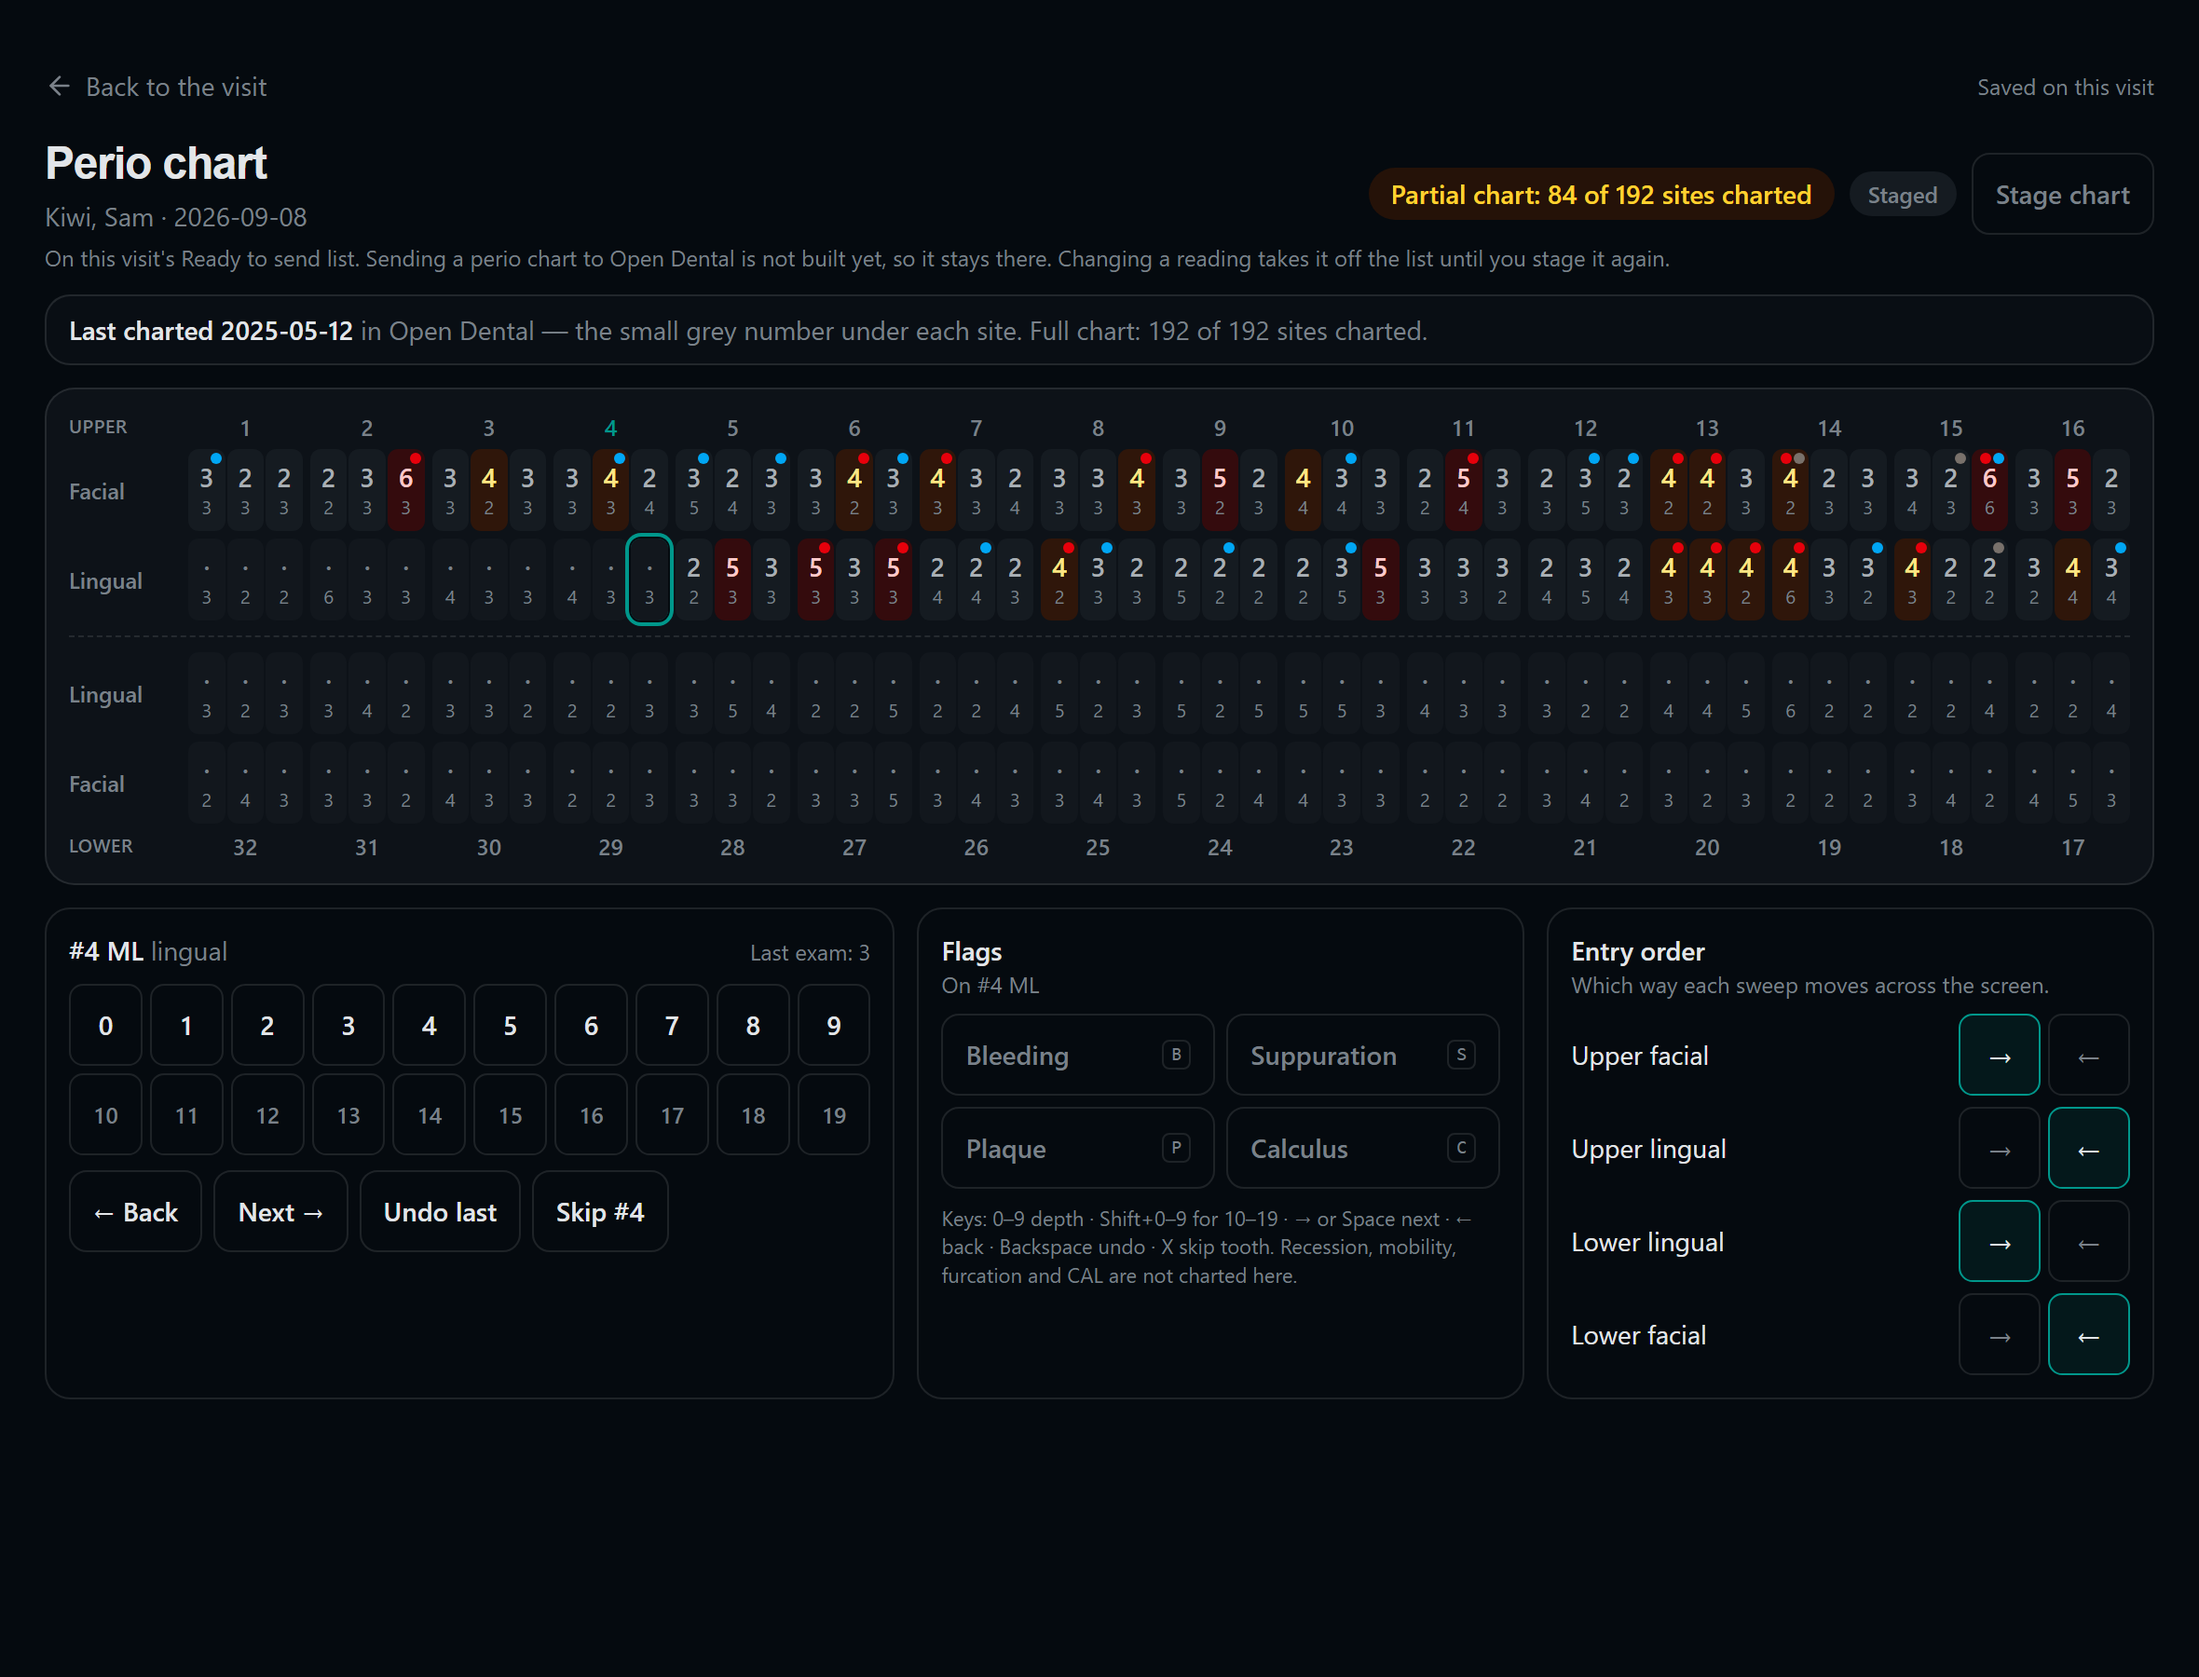
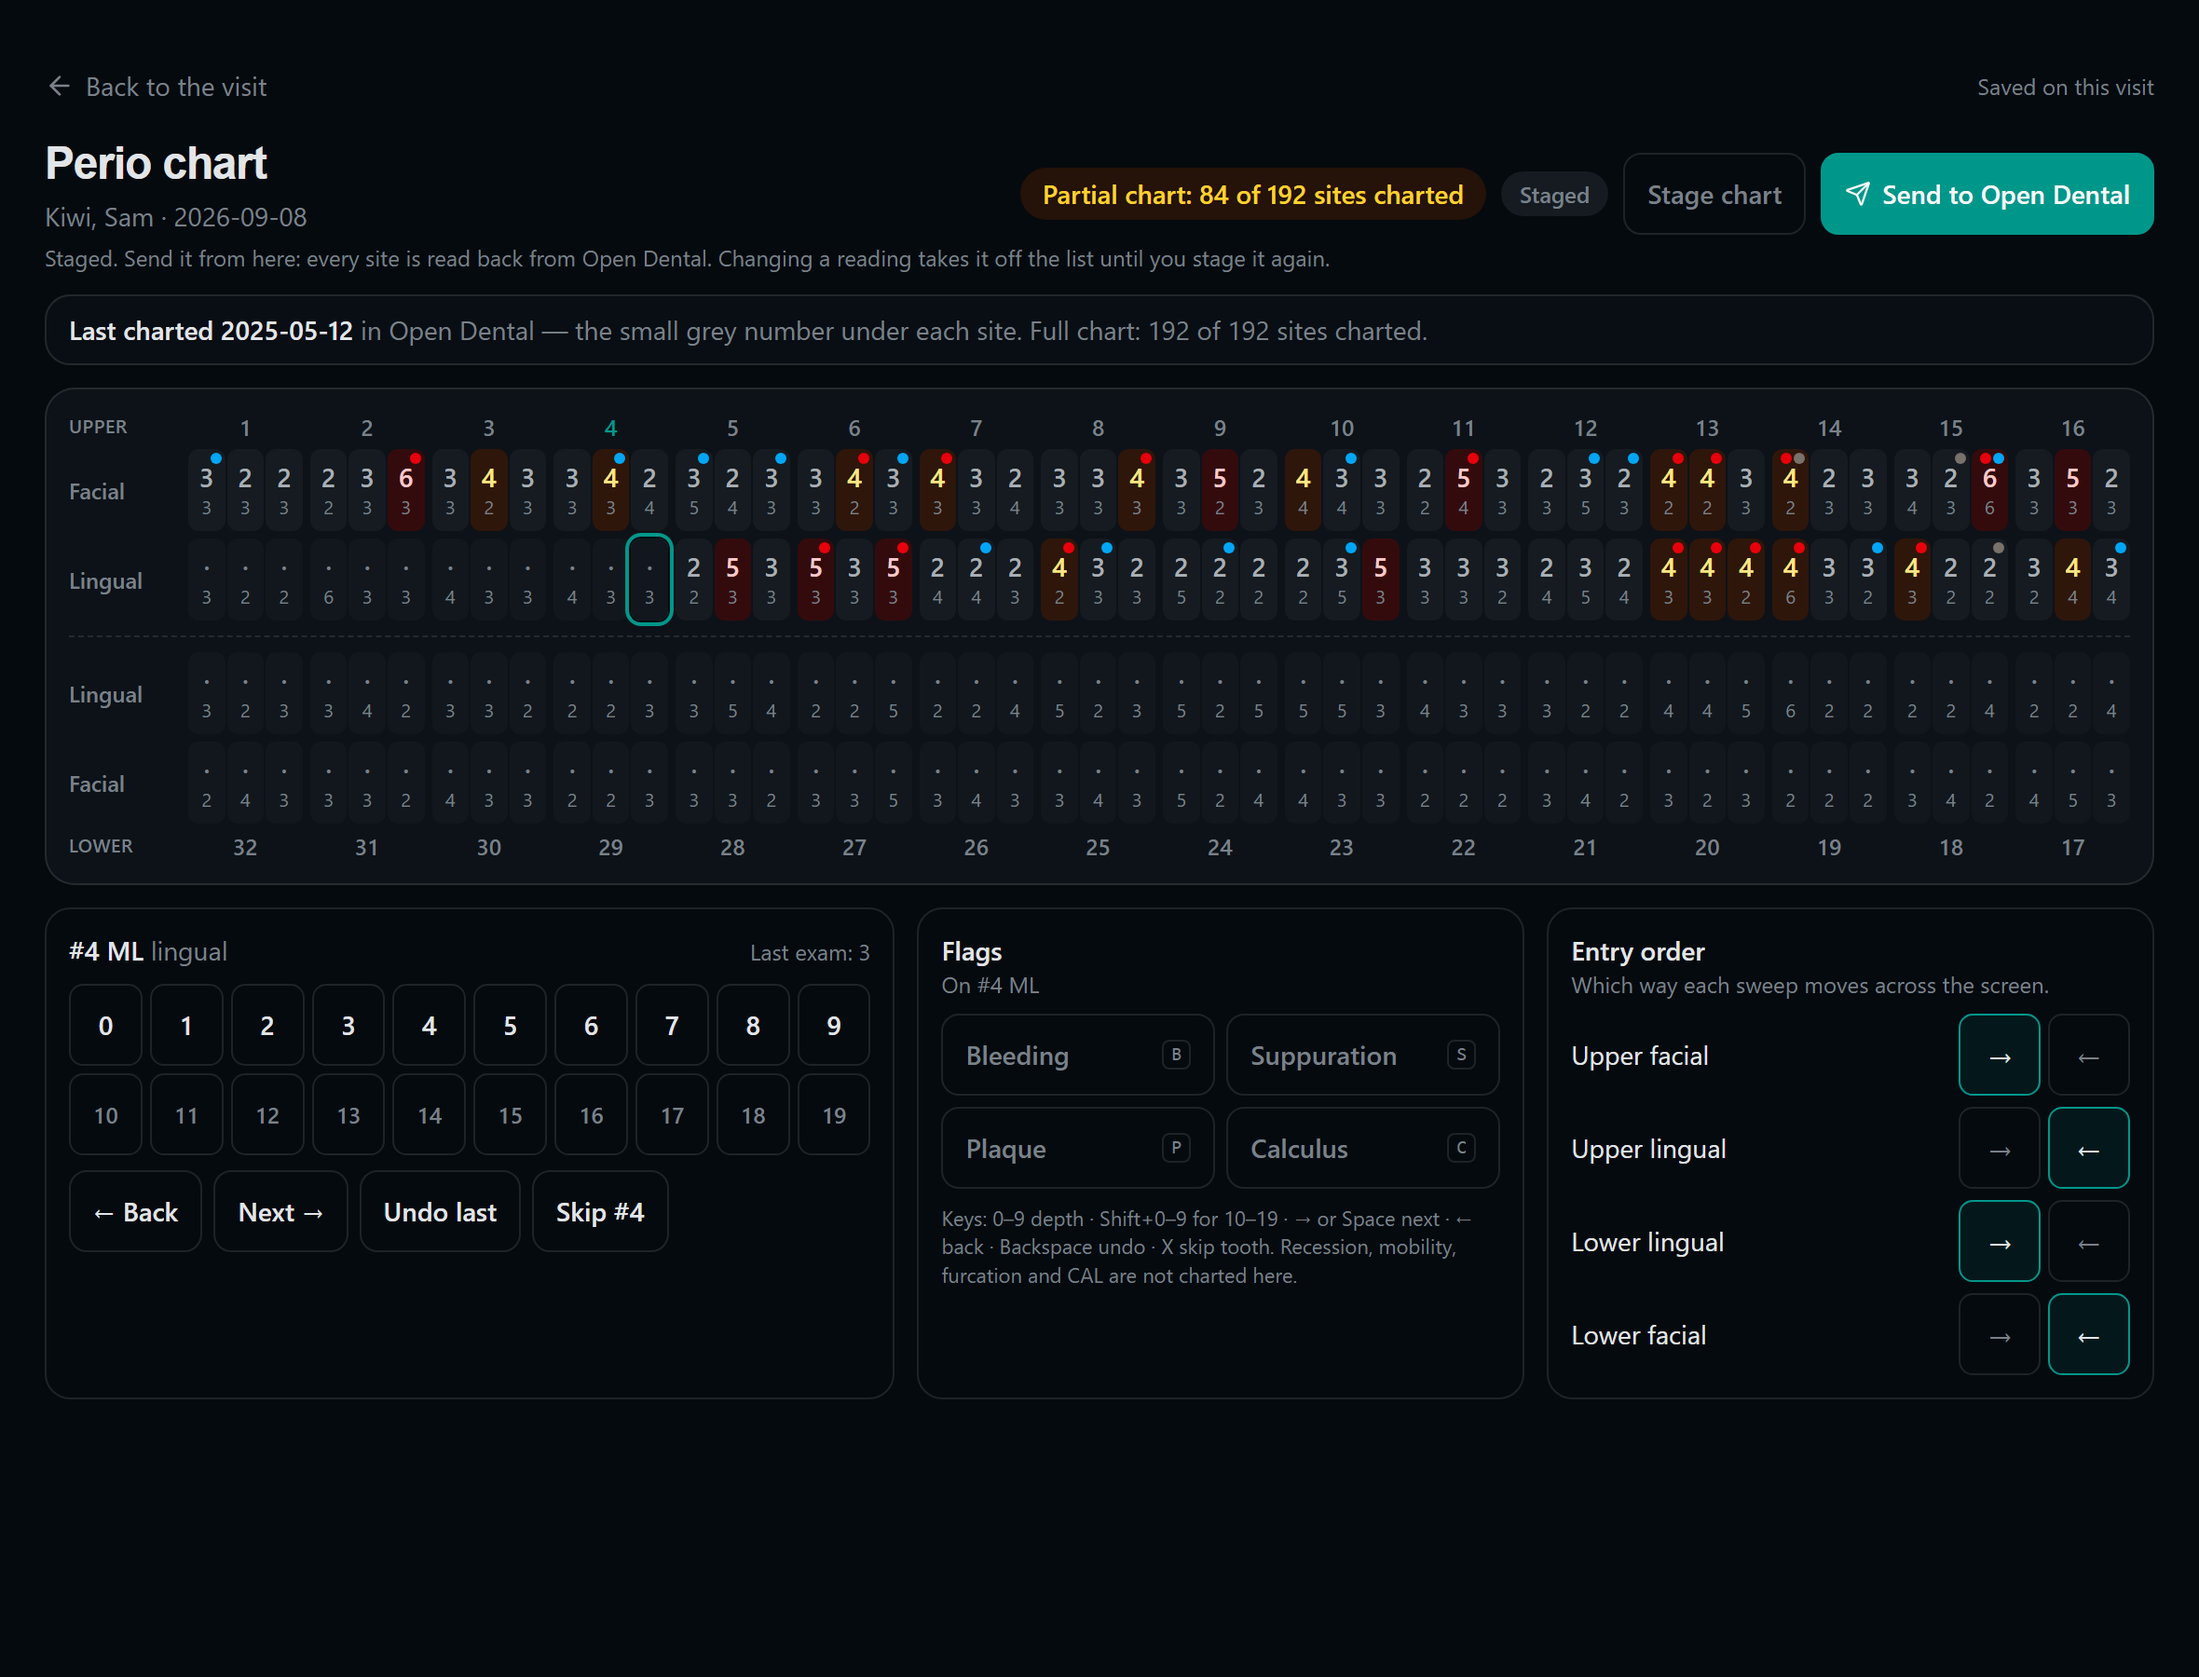
Photograph the perio send: confirm, paused, written, incomplete, undo, tray
Also point a stopped send's message at the perio chart page, since the
visit's tray shows the same words where there is no delete button.

Changed region(s): [[0.464, 0.0933, 0.9898, 0.1867], [0.2784, 0.1244, 0.3403, 0.1556], [0.0619, 0.1244, 0.0928, 0.1556]]

diff --git a/new-dashboard/tests/hyg-perio-shots.test.tsx b/new-dashboard/tests/hyg-perio-shots.test.tsx
@@ -7,13 +7,20 @@
  * and dark.
  *
  * ─────────────────────────────────────────────────────────────────────────────
- * FIVE SHOTS
+ * ELEVEN SHOTS
  * ─────────────────────────────────────────────────────────────────────────────
  *   hyg-perio-01-full-with-prior    a full chart, last exam's numbers under it
  *   hyg-perio-02-partial-staged     a partial chart, staged, and labelled partial
  *   hyg-perio-03-no-prior           no exam on file: an honest empty, not zeros
  *   hyg-perio-04-prior-unavailable  Open Dental did not answer — not "no history"
  *   hyg-perio-05-tray               the visit's tray: perio staged, left out of Send
+ *   The send (item 12):
+ *   hyg-perio-send-06-confirm       how each arch goes in — a 10 mm pocket named
+ *   hyg-perio-send-07-paused        rows going in, Open Dental did not answer, Continue
+ *   hyg-perio-send-08-written       every site read back and matching
+ *   hyg-perio-send-09-incomplete    loud: the sites named, the teeth marked, the undo
+ *   hyg-perio-send-10-delete        the delete dialog, tick not yet given
+ *   hyg-perio-send-11-tray-stopped  the visit's tray pointing at the stopped send
  *
  * NO NETWORK, NO BACKEND, NO PHI. The one name is synthetic; 12827 is the
  * designated roland fixture.
@@ -22,7 +29,7 @@
  */
 import * as React from "react";
 import { afterEach, beforeEach, describe, it, vi } from "vitest";
-import { cleanup, render, screen } from "@testing-library/react";
+import { cleanup, fireEvent, render, screen } from "@testing-library/react";
 import { Route, Router as WouterRouter } from "wouter";
 import { memoryLocation } from "wouter/memory-location";
 import { mkdirSync, writeFileSync } from "node:fs";
@@ -40,6 +47,7 @@ import {
   type PerioChart,
   type PerioPrior,
 } from "@shared/hyg/perio";
+import { planPerioSend, type HygPerioSendResponse, type PerioSendView } from "@shared/hyg/perioSend";
 
 (globalThis as Record<string, unknown>).React = React;
 
@@ -55,6 +63,7 @@ const fixtures = vi.hoisted(() => ({
   stagedWrite: null as unknown,
   prior: null as unknown,
   visitStaged: [] as unknown[],
+  send: null as unknown,
 }));
 
 const APPOINTMENT: HygAppointment = {
@@ -120,6 +129,16 @@ vi.mock("@/features/hyg/api", async (importOriginal) => {
         counts: perio.countPerioChart(chart),
       };
     }),
+    fetchPerioSend: vi.fn(async () =>
+      (fixtures.send as HygPerioSendResponse | null) ?? {
+        success: true as const,
+        office: "roland" as const,
+        aptNum: 900001,
+        stagedWrite: fixtures.stagedWrite as StagedWrite | null,
+        send: null,
+        paused: null,
+      },
+    ),
     fetchPerioPrior: vi.fn(async () => ({
       success: true as const,
       office: "roland" as const,
@@ -236,7 +255,68 @@ beforeEach(() => {
   fixtures.stagedWrite = null;
   fixtures.prior = { status: "none" };
   fixtures.visitStaged = [];
+  fixtures.send = null;
 });
+
+/** A full chart, #16 skipped, one 10 mm pocket on #30 DB: the upper jaw one request, the lower row by row. */
+function sendChart(): PerioChart {
+  return normalizePerioChart(withPerioSite(exam(192, 7, [16]), 30, "DB", { depth: 10, bleeding: true }));
+}
+
+function sendView(chart: PerioChart, over: Partial<PerioSendView>): PerioSendView {
+  const plan = planPerioSend(chart);
+  return {
+    sendId: "send-0001",
+    state: "filling",
+    examNum: 7001,
+    examDate: "2026-09-08",
+    provNum: 7,
+    arches: plan.arches,
+    rowsPlanned: plan.rows.length,
+    rowsWritten: 0,
+    deepSites: plan.deepSites.length,
+    mismatches: [],
+    errorMessage: null,
+    requestsRemaining: 0,
+    startedBy: "hygienist@carein.ai",
+    startedAt: "2026-09-08T13:20:00.000Z",
+    finishedAt: null,
+    deletedBy: null,
+    deletedAt: null,
+    canDelete: false,
+    ...over,
+  };
+}
+
+function sendResponse(write: StagedWrite, send: PerioSendView, paused: string | null = null): HygPerioSendResponse {
+  return { success: true, office: "roland", aptNum: 900001, stagedWrite: write, send, paused };
+}
+
+const INCOMPLETE_MESSAGE =
+  "Exam 7001 is in Open Dental but does not match this chart at 2 places: #19 MB: the chart says 3 mm, " +
+  "Open Dental holds 4 mm; #19 B: the chart says 2 mm, Open Dental holds 3 mm. An incomplete perio chart " +
+  "understates disease. Delete exam 7001 from Open Dental on the perio chart page, or correct it there.";
+
+function incompleteFixtures(chart: PerioChart) {
+  const write = { ...perioWrite("Failed", chart), errorMessage: INCOMPLETE_MESSAGE };
+  fixtures.chart = chart;
+  fixtures.stagedWrite = write;
+  fixtures.prior = found(exam(192, 5, [16]));
+  fixtures.send = sendResponse(
+    write,
+    sendView(chart, {
+      state: "incomplete",
+      rowsWritten: 16,
+      canDelete: true,
+      finishedAt: "2026-09-08T13:21:30.000Z",
+      errorMessage: INCOMPLETE_MESSAGE,
+      mismatches: [
+        { tooth: 19, surface: "MB", kind: "depth", expected: "3 mm", found: "4 mm" },
+        { tooth: 19, surface: "B", kind: "depth", expected: "2 mm", found: "3 mm" },
+      ],
+    }),
+  );
+}
 afterEach(cleanup);
 
 describe.skipIf(!SHOOT)("perio chart screenshot dumps", () => {
@@ -307,5 +387,75 @@ describe.skipIf(!SHOOT)("perio chart screenshot dumps", () => {
     renderAt("/hyg/visit/900001?office=roland&date=2026-09-08", "/hyg/visit/:aptNum", HygVisit);
     await screen.findByTestId("hyg-perio-not-sent");
     dump("hyg-perio-05-tray@1180x1400");
+  });
+
+  it("06 — the confirm: how each arch goes in, with the 10 mm pocket named", async () => {
+    const chart = sendChart();
+    fixtures.chart = chart;
+    fixtures.stagedWrite = perioWrite("Staged", chart);
+    fixtures.prior = found(exam(192, 5, [16]));
+    renderPerio();
+    await screen.findByText(/Kiwi, Sam/);
+    fireEvent.click(await screen.findByTestId("hyg-perio-send-open"));
+    await screen.findByTestId("hyg-perio-confirm-arches");
+    dump("hyg-perio-send-06-confirm@1180x900");
+  });
+
+  it("07 — rows going in, Open Dental did not answer, and Continue", async () => {
+    const chart = sendChart();
+    const write = perioWrite("Sending", chart);
+    fixtures.chart = chart;
+    fixtures.stagedWrite = write;
+    fixtures.prior = found(exam(192, 5, [16]));
+    const view = sendView(chart, { state: "filling" });
+    fixtures.send = sendResponse(
+      write,
+      { ...view, rowsWritten: 12, requestsRemaining: 7 },
+      "Open Dental did not answer for #29 Probing. CareIN will check whether it landed before sending it again.",
+    );
+    renderPerio();
+    await screen.findByTestId("hyg-perio-continue");
+    dump("hyg-perio-send-07-paused@1180x900");
+  });
+
+  it("08 — written: every site read back and matching", async () => {
+    const chart = sendChart();
+    const write = {
+      ...perioWrite("Written", chart),
+      writtenRef: "Perio exam 7001: 186 sites and 1 skipped tooth read back and match",
+      sentBy: "hygienist@carein.ai",
+      sentAt: "2026-09-08T13:21:30.000Z",
+    };
+    fixtures.chart = chart;
+    fixtures.stagedWrite = write;
+    fixtures.prior = found(exam(192, 5, [16]));
+    const view = sendView(chart, { state: "written", finishedAt: "2026-09-08T13:21:30.000Z" });
+    fixtures.send = sendResponse(write, { ...view, rowsWritten: view.rowsPlanned });
+    renderPerio();
+    await screen.findByTestId("hyg-perio-state-Written");
+    dump("hyg-perio-send-08-written@1180x900");
+  });
+
+  it("09 — incomplete: loud, the sites named, the teeth marked, and the undo", async () => {
+    incompleteFixtures(sendChart());
+    renderPerio();
+    await screen.findByTestId("hyg-perio-incomplete");
+    dump("hyg-perio-send-09-incomplete@1180x900");
+  });
+
+  it("10 — the delete dialog, before the tick", async () => {
+    incompleteFixtures(sendChart());
+    renderPerio();
+    fireEvent.click(await screen.findByTestId("hyg-perio-delete-open"));
+    await screen.findByTestId("hyg-perio-delete-dialog");
+    dump("hyg-perio-send-10-delete@1180x900");
+  });
+
+  it("11 — the visit's tray, pointing at the stopped send", async () => {
+    const chart = sendChart();
+    fixtures.visitStaged = [{ ...perioWrite("Failed", chart), errorMessage: INCOMPLETE_MESSAGE }];
+    renderAt("/hyg/visit/900001?office=roland&date=2026-09-08", "/hyg/visit/:aptNum", HygVisit);
+    await screen.findByTestId("hyg-perio-in-progress");
+    dump("hyg-perio-send-11-tray-stopped@1180x1400");
   });
 });

diff --git a/backend/services/hyg/perioSend.js b/backend/services/hyg/perioSend.js
@@ -305,7 +305,7 @@ async function startPerioSend({ pool, office, visit, appointment, request, actor
 async function stopIncomplete(ctx, send, message, mismatches) {
   const undo =
     send.exam_num !== null
-      ? ` An incomplete perio chart understates disease. Delete exam ${send.exam_num} from Open Dental from this page, or correct it there.`
+      ? ` An incomplete perio chart understates disease. Delete exam ${send.exam_num} from Open Dental on the perio chart page, or correct it there.`
       : ' An incomplete perio chart understates disease. Check this patient\'s perio chart in Open Dental before sending again.';
   const full = message + undo;
   await store.finishSend(ctx.pool, {
